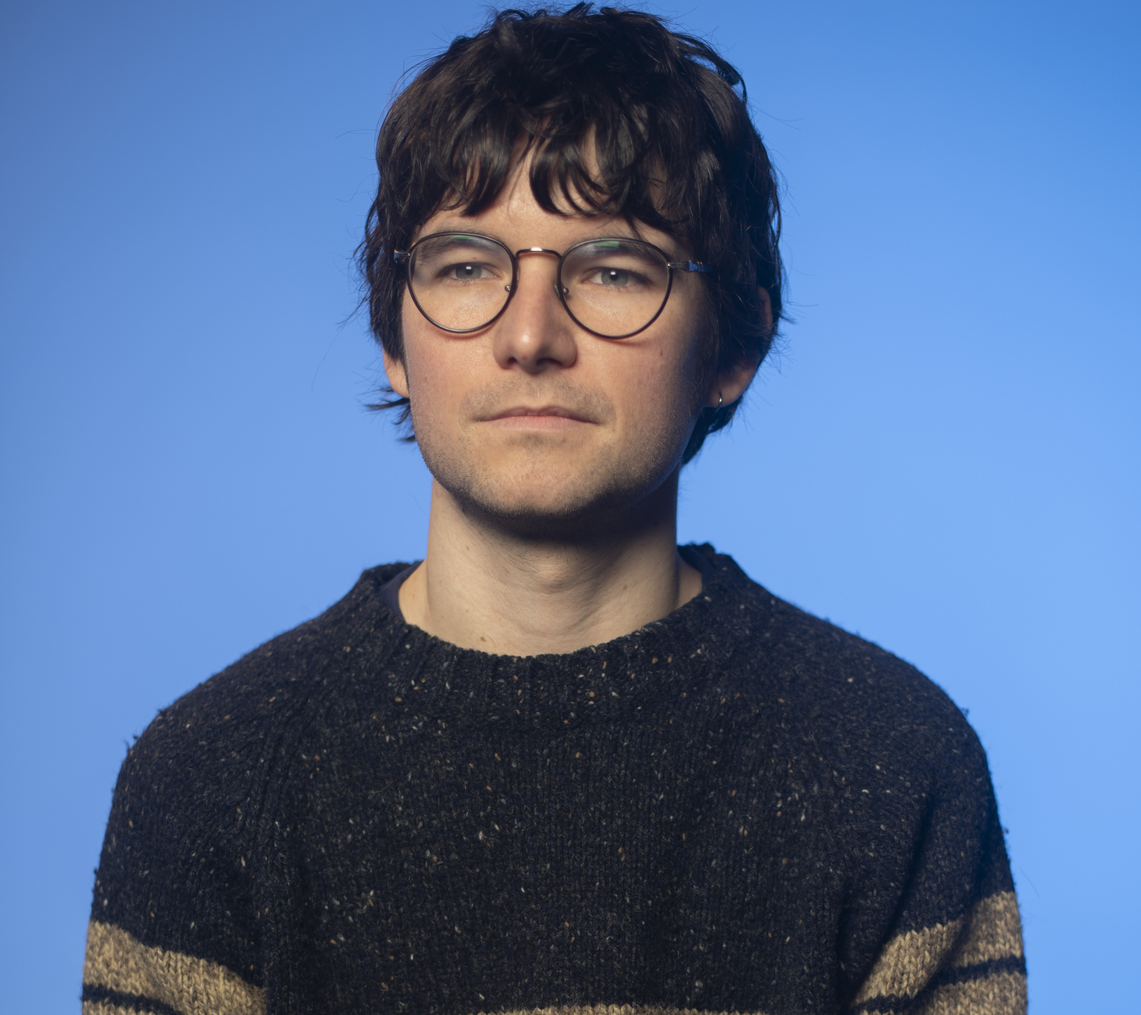
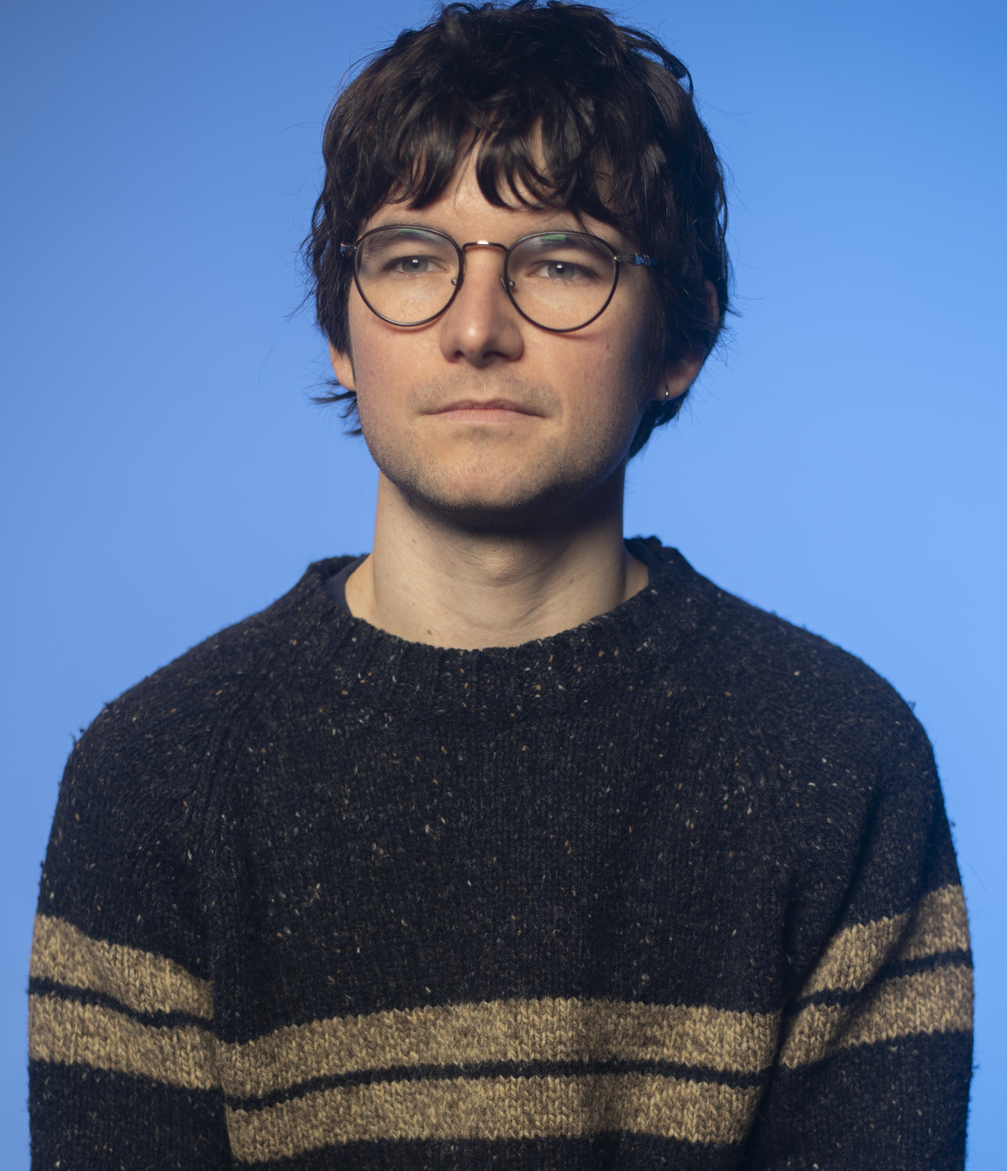
image + styling tweaks

diff --git a/assets/css/main.css b/assets/css/main.css
@@ -102,7 +102,7 @@ html {
 }
 
 body {
-  background: #A1869E;
+  background: #272A38;
 }
 body.is-preload *, body.is-preload *:before, body.is-preload *:after {
   -webkit-animation: none !important;
@@ -173,6 +173,7 @@ h1 a, h2 a, h3 a, h4 a, h5 a, h6 a {
 
 h1 {
   font-size: 2.75em;
+  font-weight: 100;
 }
 h1.major {
   margin: 0 0 1.3em 0;
@@ -180,8 +181,8 @@ h1.major {
   padding-bottom: 0.35em;
 }
 h1.major:after {
-  background-image: -webkit-gradient(linear, left top, right top, from(#A1869E), to(#D1CEF7));
-  background-image: linear-gradient(to right, #A1869E, #D1CEF7);
+  background-image: -webkit-gradient(linear, left top, right top, from(#272A38), to(#D1CEF7));
+  background-image: linear-gradient(to right, #272A38, #D1CEF7);
   -webkit-transition: max-width 0.2s ease;
   transition: max-width 0.2s ease;
   border-radius: 0.2em;
@@ -1642,7 +1643,7 @@ input[type=button].primary,
 button.primary,
 .button.primary {
   background-color: #ffffff;
-  color: #A1869E !important;
+  color: #272A38 !important;
 }
 input[type=submit].primary:after,
 input[type=reset].primary:after,
@@ -1973,7 +1974,7 @@ select {
 }
 select option {
   color: #ffffff;
-  background: #A1869E;
+  background: #272A38;
 }
 select:focus::-ms-value {
   background-color: transparent;
@@ -2097,6 +2098,7 @@ input[type=radio] + label:before {
   text-decoration: none;
   border-bottom: none;
   position: relative;
+  font-size: 1.8em;
 }
 .icon:before {
   -moz-osx-font-smoothing: grayscale;
@@ -2128,7 +2130,7 @@ input[type=radio] + label:before {
   display: block;
   background: #ffffff;
   border-radius: 100%;
-  color: #A1869E;
+  color: #272A38;
   text-align: center;
   line-height: 2.5em;
   margin: 0 0 1.3em 0;
@@ -2137,16 +2139,16 @@ input[type=radio] + label:before {
   font-size: 1.25em;
 }
 .wrapper.style1 .icon.major:before {
-  color: #A1869E;
+  color: #272A38;
 }
 .wrapper.style1-alt .icon.major:before {
-  color: #896b86;
+  color: #12131a;
 }
 .wrapper.style2 .icon.major:before {
-  color: #A1869E;
+  color: #272A38;
 }
 .wrapper.style2-alt .icon.major:before {
-  color: #896b86;
+  color: #12131a;
 }
 .wrapper.style3 .icon.major:before {
   color: #D1CEF7;
@@ -2542,7 +2544,7 @@ body.is-ie .spotlights > section {
 .spotlights > section > .image:before {
   -webkit-transition: opacity 1s ease;
   transition: opacity 1s ease;
-  background: rgba(161, 134, 158, 0.9);
+  background: rgba(39, 42, 56, 0.9);
   content: "";
   display: block;
   height: 100%;
@@ -2700,14 +2702,14 @@ table.alt tfoot {
 }
 @media screen and (max-width: 736px) {
   .wrapper > .inner {
-    padding: 3em 2em 1em 2em;
+    padding: 3em 1em 1em 1em;
   }
 }
 .wrapper.alt {
-  background-color: #967892;
+  background-color: #1d1f29;
 }
 .wrapper.style1 {
-  background-color: #A1869E;
+  background-color: #272A38;
   height: 50vw;
   display: -webkit-box;
   display: -ms-flexbox;
@@ -2731,25 +2733,25 @@ table.alt tfoot {
   background-image: url("../../../images/conor.JPG");
   background-size: cover;
   border-radius: 50%;
-  height: 440px;
+  height: 400px;
   width: 100%;
 }
 @media screen and (max-width: 736px) {
   .wrapper.style1 .conor-image {
     background-image: url("../../../images/conor_cropped.JPG");
-    background-size: cover;
-    height: 100%;
-    width: 11em;
+    background-position: center;
+    height: 248px;
+    width: 13em;
   }
 }
 .wrapper.style1-alt {
-  background-color: #896b86;
+  background-color: #12131a;
 }
 .wrapper.style2 {
-  background-color: #A1869E;
+  background-color: #272A38;
 }
 .wrapper.style2-alt {
-  background-color: #896b86;
+  background-color: #12131a;
 }
 .wrapper.style3 {
   background-color: #D1CEF7;
@@ -2841,7 +2843,7 @@ body.is-ie .wrapper.fullscreen {
   display: -webkit-box;
   display: -ms-flexbox;
   display: flex;
-  background-color: #A1869E;
+  background-color: #272A38;
   cursor: default;
   padding: 1.75em 2em;
 }
@@ -2972,7 +2974,7 @@ body.is-ie .wrapper.fullscreen {
 #sidebar {
   padding: 2.5em 2.5em 0.5em 2.5em;
   font-family: "komet", sans-serif;
-  background: #A1869E;
+  background: #272A38;
   cursor: default;
   height: 100vh;
   left: 0;
@@ -3116,7 +3118,7 @@ body.is-ie #sidebar > .inner {
   border: 0;
   color: rgba(255, 255, 255, 0.35);
   display: block;
-  font-size: 1em;
+  font-size: 14px;
   font-weight: bold;
   letter-spacing: 0.25em;
   line-height: 1.75;
@@ -3136,11 +3138,11 @@ body.is-ie #sidebar > .inner {
   width: 100%;
 }
 #sidebar nav a:before {
-  background: #ac94aa;
+  background: #313547;
 }
 #sidebar nav a:after {
-  background-image: -webkit-gradient(linear, left top, right top, from(#A1869E), to(#D1CEF7));
-  background-image: linear-gradient(to right, #A1869E, #D1CEF7);
+  background-image: -webkit-gradient(linear, left top, right top, from(#272A38), to(#D1CEF7));
+  background-image: linear-gradient(to right, #272A38, #D1CEF7);
   -webkit-transition: max-width 0.2s ease;
   transition: max-width 0.2s ease;
   max-width: 0;
@@ -3256,5 +3258,8 @@ body.is-preload #sidebar nav ul li {
     -webkit-box-direction: reverse;
         -ms-flex-direction: column-reverse;
             flex-direction: column-reverse;
+    height: -webkit-fit-content;
+    height: -moz-fit-content;
+    height: fit-content;
   }
 }

diff --git a/assets/sass/libs/_vars.scss b/assets/sass/libs/_vars.scss
@@ -42,17 +42,17 @@
 
 // Palette.
 	$palette: (
-		bg:					#A1869E,
-		bg-alt:				darken(#A1869E, 5),
+		bg:					#272A38,
+		bg-alt:				darken(#272A38, 5),
 		fg:					white,
 		fg-bold:			#ffffff,
 		fg-light:			rgba(255,255,255,0.35),
 		border:				rgba(255,255,255,0.15),
 		border-bg:			rgba(255,255,255,0.05),
-		accent1:			#A1869E,
-		accent1-alt:		darken(#A1869E, 10),
-		accent2:			#A1869E,
-		accent2-alt:		darken(#A1869E, 10),
+		accent1:			#272A38,
+		accent1-alt:		darken(#272A38, 10),
+		accent2:			#272A38,
+		accent2-alt:		darken(#272A38, 10),
 		accent3:			#D1CEF7,
 		accent3-alt:		darken(#D1CEF7, 10)
 	);

diff --git a/assets/sass/components/_wrapper.scss b/assets/sass/components/_wrapper.scss
@@ -23,7 +23,7 @@
 			}
 
 			@include breakpoint('<=small') {
-				@include padding(3em, 2em);
+				@include padding(3em, 1em);
 			}
 		}
 
@@ -48,14 +48,14 @@
 				background-image: url('../../../images/conor.JPG');
 				background-size: cover;
 				border-radius: 50%;
-				height: 440px;
+				height: 400px;
 				width: 100%;
 				
 				@include breakpoint('<=small') {
 					background-image: url('../../../images/conor_cropped.JPG');
-					background-size: cover;
-					height: 100%;
-					width: 11em;
+					background-position: center;
+					height: 248px;
+					width: 13em;
 				}
 			}
 		}

diff --git a/assets/sass/layout/_sidebar.scss b/assets/sass/layout/_sidebar.scss
@@ -71,7 +71,7 @@
 				border: 0;
 				color: _palette(fg-light);
 				display: block;
-				font-size: 1em;
+				font-size: 14px;
 				font-weight: _font(weight-bold);
 				letter-spacing: _font(kerning-alt);
 				line-height: 1.75;

diff --git a/assets/sass/components/_icon.scss b/assets/sass/components/_icon.scss
@@ -10,6 +10,7 @@
 		@include icon;
 		border-bottom: none;
 		position: relative;
+		font-size: 1.8em;
 
 		> .label {
 			display: none;

diff --git a/assets/sass/base/_typography.scss b/assets/sass/base/_typography.scss
@@ -68,6 +68,7 @@
 
 	h1 {
 		font-size: 2.75em;
+		font-weight: 100;
 
 		&.major {
 			margin: 0 0 (_size(element-margin) * 0.65) 0;

diff --git a/assets/sass/layout/_intro.scss b/assets/sass/layout/_intro.scss
@@ -32,5 +32,6 @@
 		}
 		@include breakpoint('<=small') {
 			flex-direction: column-reverse;
+			height:  fit-content;
 		}
 	}
